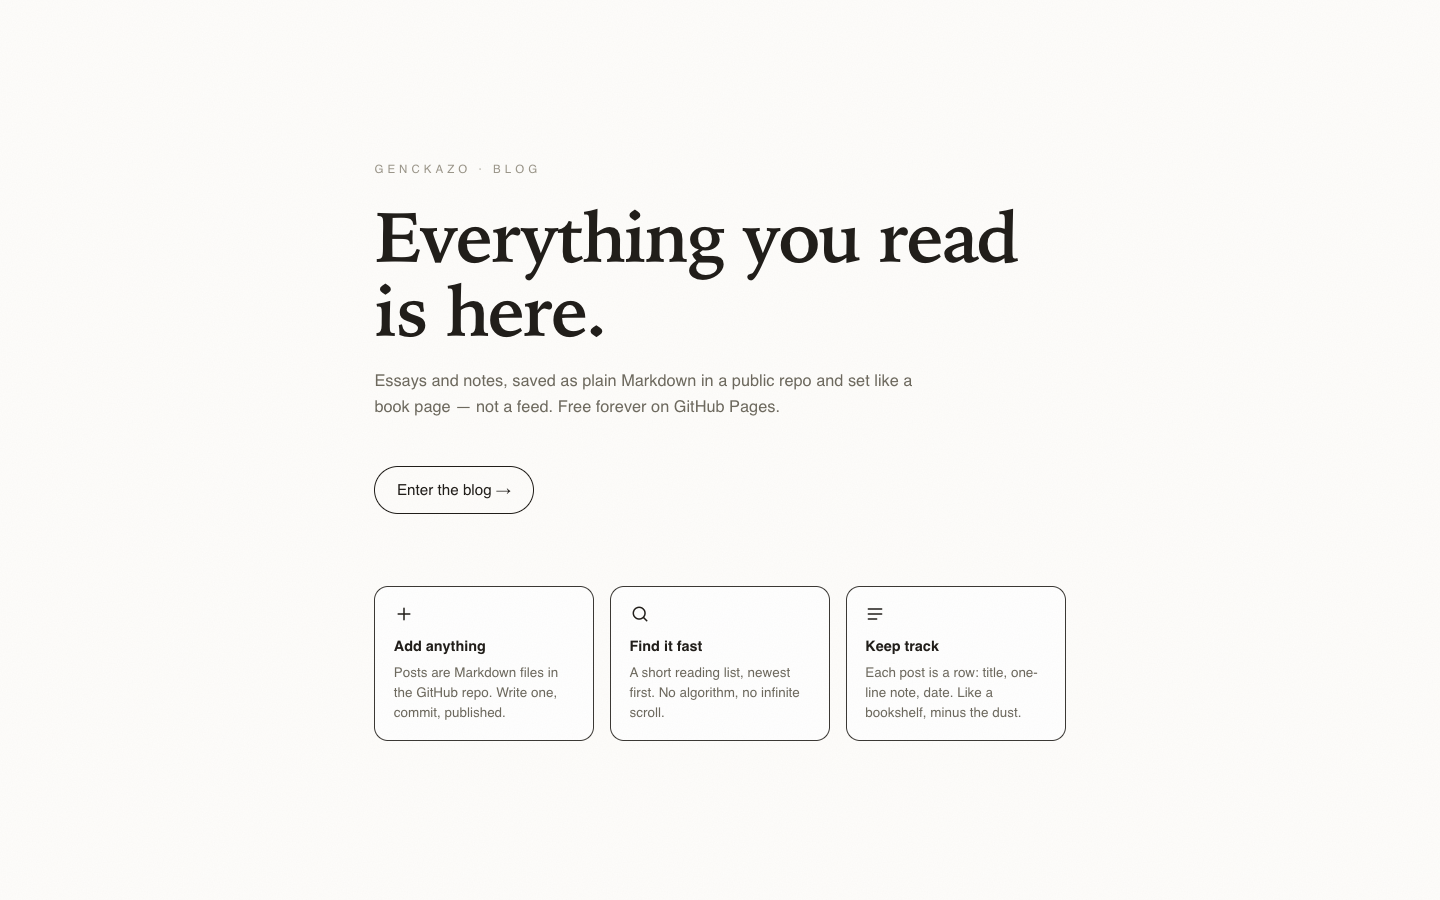
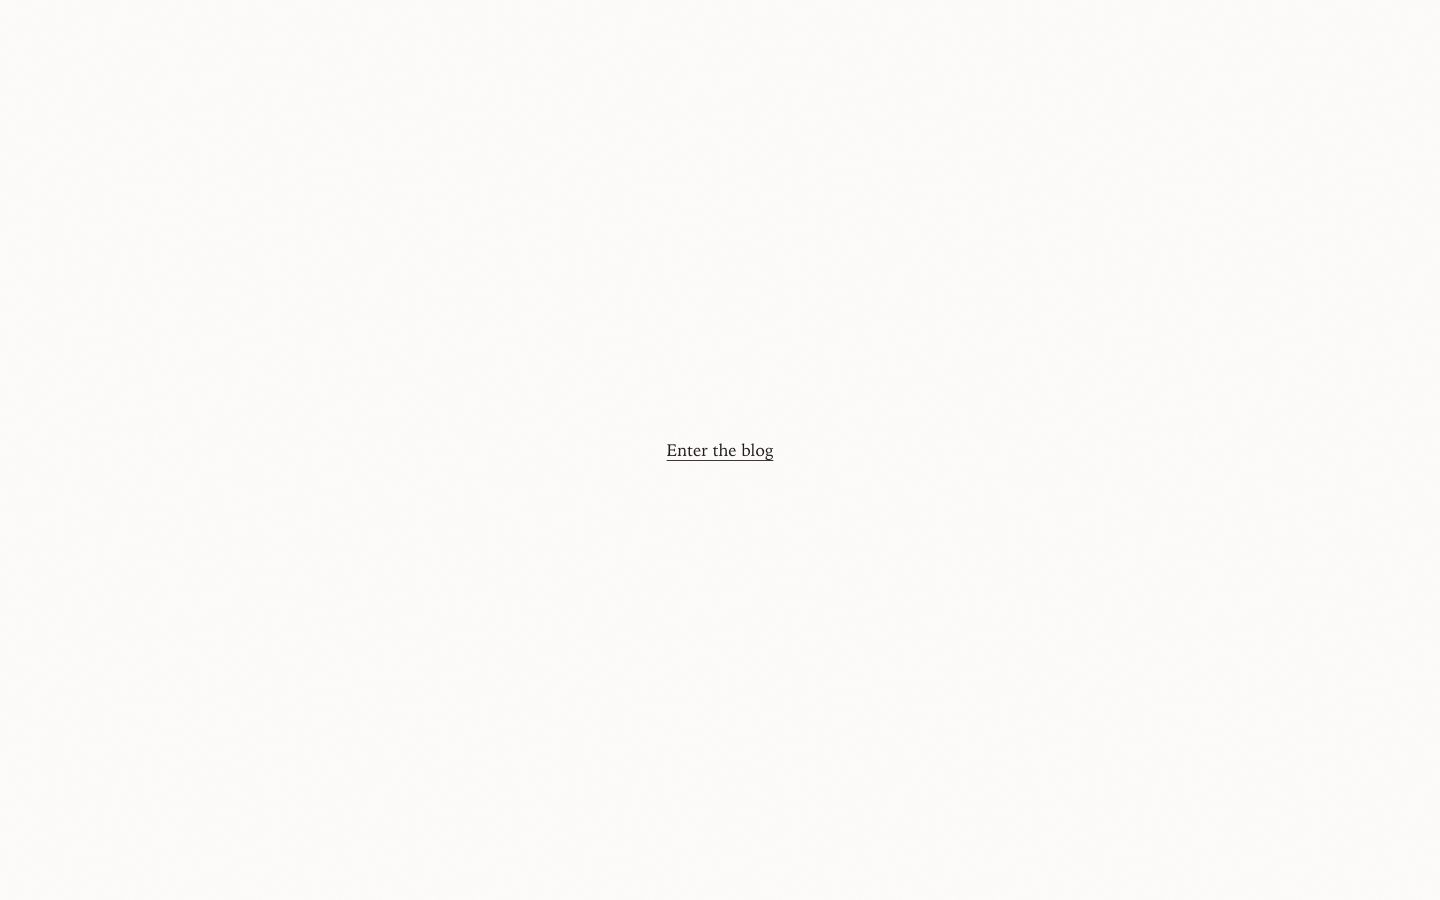
Empty the site: landing shows only an 'Enter the blog' link; remove all mock content (owner request)
- Landing page: blank paper page, single centered 'Enter the blog' link only
  (headline, lede, feature cards removed)
- Deleted all sample/mock Markdown posts; reading list shows 'No posts yet.'
- Projects and About pages emptied of invented content
- Screenshots regenerated (01-09); README + docs/variations.md updated

diff --git a/docs/variations.md b/docs/variations.md
@@ -1,36 +1,35 @@
 # Design variations
+
 The look is driven entirely by CSS custom properties in `:root`
 (`src/styles/global.css`) and can be tuned live with the **Display** panel
-(floating button, bottom right) on every reading page. Settings persist in
+(floating button, bottom right) on every page. Settings persist in
 `localStorage`; `?texture=subtle|standard|strong` overrides the grain once.
 
 ## Display themes (chips in the Display panel)
 
 | Theme | Screenshot | Notes |
 |---|---|---|
-| **Paper** (default) | ![paper post](screenshots/04-post-paper-desktop.png) | warm off-white `#f4f1ea`, near-black ink |
-| **Dusk** | ![dusk post](screenshots/05-post-dusk-desktop.png) | muted warm gray, dark ink — evening reading |
-| **Ink** | ![ink post](screenshots/06-post-ink-desktop.png) | near-black paper, off-white ink — e-ink night mode |
+| **Paper** (default) | ![list paper](screenshots/03-list-desktop.png) | warm off-white `#f4f1ea`, near-black ink |
+| **Dusk** | ![list dusk](screenshots/04-list-dusk.png) | muted warm gray, dark ink — evening reading |
+| **Ink** | ![list ink](screenshots/05-list-ink.png) | near-black paper, off-white ink — e-ink night mode |
 
-The Display panel itself, exactly as shipped (chips + Light 62% / Contrast 0% /
-Warmth 38% / Grain 25% sliders):
+The Display panel itself (chips + Light / Contrast / Warmth / Grain sliders):
 
-![display panel](screenshots/10-display-panel-open.png)
+![display panel](screenshots/06-display-panel.png)
 
 ## Grain intensity (`?texture=` on any page)
 
-| Level | Screenshot | `--noise` |
-|---|---|---|
-| subtle | — | 16% slider |
-| standard (default) | ![standard](screenshots/04-post-paper-desktop.png) | 38% slider |
-| strong | ![strong](screenshots/09-post-grain-strong.png) | 62% slider |
+| Level | `--noise` |
+|---|---|
+| subtle | 16% slider |
+| standard (default) | 38% slider |
+| strong | 62% slider |
 
 ## Pages
 
-- Landing (desktop): `screenshots/01-landing-desktop.png` · mobile: `screenshots/02-landing-mobile.png`
-- Reading list (desktop): `screenshots/03-list-desktop.png` · mobile: `screenshots/08-list-mobile.png`
-- Post page (desktop): `screenshots/04-post-paper-desktop.png` · mobile: `screenshots/07-post-mobile.png`
-- Projects / About: `screenshots/11-projects-desktop.png`, `screenshots/12-about-desktop.png`
+- Landing (desktop / mobile): `screenshots/01-landing-desktop.png`, `screenshots/02-landing-mobile.png`
+- Reading list (desktop / mobile): `screenshots/03-list-desktop.png`, `screenshots/07-list-mobile.png`
+- Projects / About: `screenshots/08-projects.png`, `screenshots/09-about.png`
 
 ## Tweak points for the owner
 
@@ -39,5 +38,4 @@ Warmth 38% / Grain 25% sliders):
 - Themes: the `THEMES` map in the inline script in `src/layouts/Layout.astro`
   (and the copy in `src/pages/index.astro`).
 - Grain: `body::after` overlay in `global.css`; `--noise` custom property.
-- Typography scale: `.prose`, `.page-title`, `h1.display` in `global.css` /
-  `index.astro`.
+- Typography scale: `.prose`, `.page-title` in `global.css`.

diff --git a/README.md b/README.md
@@ -44,8 +44,7 @@ npm run preview    # serve dist/ locally
 
 ## Look & feel
 
-- **Landing**: oversized serif headline, short lede, pill "Enter the blog"
-  link, three feature cards — plain type on paper.
+- **Landing**: an empty page with a single "Enter the blog" link — nothing else.
 - **Reading pages**: warm paper background with a subtle grain (inline SVG
   `feTurbulence`), near-black ink, serif body with indented paragraphs at
   1.78 line height, sans-serif UI chrome, hairline dividers, no shadows.
